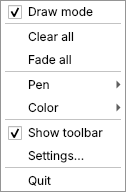
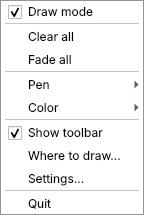
docs: document monitor and window targets, add future considerations
- FUTURE_CONSIDERATIONS.md collects ideas we discussed but have not built,
  starting with drawing over a region, plus click-to-pick windows, stacking
  only above the pinned window, remembering a pinned window, all-monitors
  mode, studio mode and other housekeeping.
- README: a "Choosing where to draw" section and troubleshooting entries,
  with a new screenshot of the dialog.
- ARCHITECTURE: the target decision and its limits.
- Refreshes the session log.

AIA PAI SeCeNc Hin R Claude Code Web Sonnet 5.5 Medium v1.0

Vibe-Coder: Vibe-Coder 1.z3r0 <243014891+vibecoder-1z3r0@users.noreply.github.com>

Changed region(s): [[0.0238, 0.25, 0.9762, 0.75], [0.0238, 0.0, 0.9762, 0.2188], [0.0476, 0.7812, 0.9524, 1.0]]

diff --git a/scripts/screenshots.py b/scripts/screenshots.py
@@ -204,12 +204,43 @@ def dissipation_screenshot(out: Path) -> None:
     image.save(str(out / "dissipation.png"))
 
 
+def target_screenshot(out: Path) -> None:
+    """The "Where to draw" dialog with two monitors and a few example windows."""
+    from maddenmode.gui.target_dialog import TargetDialog
+    from maddenmode.targeting import MonitorTarget, Rect, ScreenInfo
+    from maddenmode.windows import WindowInfo, WindowState
+
+    class SampleWindows:
+        available = True
+
+        def list_windows(self) -> list[WindowInfo]:
+            return [
+                WindowInfo(1, "Match replay - Game", Rect(0, 0, 1600, 900)),
+                WindowInfo(2, "Browser", Rect(0, 0, 1280, 800)),
+                WindowInfo(3, "Video call", Rect(0, 0, 960, 540)),
+            ]
+
+        def get_state(self, handle: int) -> WindowState:
+            raise AssertionError("the dialog only lists windows")
+
+    screens = [
+        ScreenInfo(0, "Main display", Rect(0, 0, 1920, 1080), 1.0, primary=True),
+        ScreenInfo(1, "Second display", Rect(1920, 0, 2560, 1440), 1.0),
+    ]
+    dialog = TargetDialog(screens, SampleWindows(), MonitorTarget(0))
+    dialog.resize(560, 460)
+    dialog.show()
+    dialog.grab().save(str(out / "target.png"))
+    dialog.close()
+
+
 def main() -> int:
     out = Path(sys.argv[1]) if len(sys.argv) > 1 else Path("docs/screenshots")
     out.mkdir(parents=True, exist_ok=True)
     qapp = QApplication.instance() or QApplication([])
     overlay_screenshot(out)
     dissipation_screenshot(out)
+    target_screenshot(out)
     print(f"wrote {sorted(p.name for p in out.glob('*.png'))} to {out}")
     qapp.quit()
     return 0

diff --git a/FUTURE_CONSIDERATIONS.md b/FUTURE_CONSIDERATIONS.md
@@ -1,0 +1,75 @@
+# Future considerations
+
+Ideas we talked about but have not built. None of these is a commitment, and
+the notes are starting points, not designs.
+
+## Draw over a region
+
+Drag a rectangle once, and the overlay covers only that area.
+
+- **Why:** some things worth drawing over are not a window of their own, such
+  as one part of the screen or a video inside another app. Pinning to a window
+  does not help there, and a whole monitor is more than you want.
+- **How it differs from pinning:** a region never follows anything. It stays
+  put until you change it.
+- **Saving it:** unlike a window handle, a region (a rectangle plus which
+  monitor it is on) still makes sense after a restart, so it could be saved in
+  the settings. It needs a fallback if that monitor is gone.
+- **Picking it:** a translucent selector over the chosen monitor with a
+  crosshair; drag to select, `Esc` cancels. A "Region..." entry next to
+  "Target" in the toolbar and tray.
+- **Testing:** the rectangle maths (normalizing a drag in any direction,
+  clamping to the monitor, a minimum size) is plain logic. The selector can be
+  tested offscreen.
+
+## Choosing and pinning windows
+
+- **Click to pick a window,** instead of choosing from a list. The list is
+  simpler and more dependable; clicking is quicker. It needs a temporary
+  full-screen "pick" mode.
+- **Stack only above the pinned window.** Today the overlay is always on top, so
+  it also covers any other window that overlaps the pinned window's area. A
+  smarter version would sit just above the target window in the stacking order
+  (on Windows, by placing it right after that window with `SetWindowPos`), which
+  needs care so it does not fight the toolbar and toast.
+- **Remember the pinned window across restarts,** by matching its title or
+  program name. Window handles do not survive a restart, so today only the
+  monitor is saved.
+- **Rescale strokes when the pinned window is resized.** Today strokes keep
+  their pixel position from the window's top-left corner and are not scaled.
+- **Mixed-scaling monitors.** The conversion from Windows' physical pixels to
+  Qt's logical pixels assumes Qt keeps each screen's origin fixed and scales
+  only its size. That is exact at 100% scaling and unverified on mixed-scaling
+  setups.
+
+## Where the overlay can draw
+
+- **All monitors at once,** as one overlay spanning every screen.
+- **True fullscreen (exclusive) games.** Many block overlays. Borderless or
+  windowed is the supported case; fullscreen would be best-effort at most.
+- **macOS and Linux.** Windows is the first target. Window pinning and global
+  hotkeys each need a backend per platform; Wayland restricts both heavily.
+
+## Drawing
+
+- **Shapes** (arrows, circles, lines) on top of freehand.
+- **Pressure-sensitive width** for styluses. Each point already carries a
+  pressure value (always 1.0 for now), so the stroke format will not change.
+
+## Studio mode
+
+A "live feed" of the screen you can pause, rewind and fast forward, then
+telestrate over. It needs a rolling screen-capture buffer. Strokes would be
+stored with timestamps, separate from the picture, so a mark made at 2:14 of the
+buffer replays when you rewind, and a timeline could show where the strokes are.
+Overlay mode keeps no history, by design.
+
+## Housekeeping
+
+- **Pin the Python version in CI** so the runners and your machine agree. The
+  project allows 3.13 and newer, and the Windows runner used a newer version
+  than the one we developed on.
+- **Measure performance at 4K.** The renderer allocates a layer per stroke per
+  frame, which has not been profiled.
+- **A packaged installer.** That would also mean shipping the Qt licence
+  notices; see `ARCHITECTURE.md`.

diff --git a/README.md b/README.md
@@ -55,6 +55,17 @@ While draw mode is off, the overlay is invisible to the mouse: clicks go through
 
 The **toolbar** (draggable, always on top) has the same controls as buttons, plus **Settings** and **Quit**. A **tray icon** has the same menu, so Quit is always reachable even with the toolbar hidden. A short **toast** message appears when the pen, color or mode changes.
 
+### Choosing where to draw
+
+By default the overlay covers your first monitor. Press **Target** on the toolbar (or **Where to draw...** in the tray menu) to change that:
+
+![The Where to draw dialog](docs/screenshots/target.png)
+
+- **A monitor:** pick any screen. Your choice is remembered.
+- **A window (Windows only):** pin the overlay to one window. It sizes itself to that window, follows it when you move or resize it, and hides while it is minimized. If the window closes, it goes back to your saved monitor. A pinned window is not remembered after a restart.
+
+Things to know about pinning: the overlay is always on top, so it also covers any other window that overlaps the pinned one, and marks keep their position from the window's top-left corner when it is resized.
+
 ### Pens
 
 Each pen has a color, width, feather (softness of the edge, in pixels; 0 is a hard edge) and a dissipation mode:
@@ -85,6 +96,8 @@ A damaged settings file never stops the app: it starts with defaults and tells y
 
 - **A hotkey does nothing, or a message says another app is using it:** switch the prefix to `Ctrl+Alt` in Settings.
 - **The overlay does not appear over a game:** try the game in windowed or borderless mode.
+- **The game is on another monitor:** press **Target** and choose that monitor.
+- **The window list is empty or disabled:** pinning needs Windows, and only windows that are visible, not minimized and have a title are listed. Open the window and press **Refresh**.
 - **On Linux:** hotkeys only work while the overlay has focus, there is no global hotkey backend yet. Wayland restricts always-on-top overlays; X11 works better. `make system-deps` installs the libraries Qt needs.
 
 ## Development
@@ -99,7 +112,7 @@ make system-deps   # Linux only: libraries Qt needs
 
 The code is split so the decisions live outside the windows: `controller`, `pen`, `scene`, `dissipation` and `settings_store` have no GUI imports and are tested directly. The `gui/` package is a thin Qt layer. Tests render offscreen, so they need no display.
 
-CI runs lint, type checking, the tests and a startup smoke test on Linux and Windows. See [CONTRIBUTING.md](CONTRIBUTING.md) for commit conventions and the policy for pull requests from forks, and [ARCHITECTURE.md](ARCHITECTURE.md) for the decisions behind the design.
+CI runs lint, type checking, the tests and a startup smoke test on Linux and Windows. See [CONTRIBUTING.md](CONTRIBUTING.md) for commit conventions and the policy for pull requests from forks, and [ARCHITECTURE.md](ARCHITECTURE.md) for the decisions behind the design. Ideas we have not built yet are in [FUTURE_CONSIDERATIONS.md](FUTURE_CONSIDERATIONS.md).
 
 ## Contributing and AI attribution
 

diff --git a/SESSION_LOG.md b/SESSION_LOG.md
@@ -69,17 +69,18 @@ Source: `/root/.claude/projects/-home-user/83b6fe43-fdef-5d48-9254-009a9ebfb942.
 | 63 | Open a PR | 02:55:49 | 2m 46s | 11s | 62 | 13,553 | 50,826 | 11,881,013 |
 | 64 | I did the forks thing | 02:58:45 | 11s | 47s | 10 | 1,686 | 816 | 1,366,719 |
 | 65 | Approval required | 02:59:43 | 13s | 33h 35m ⏳ | 9 | 2,203 | 1,583 | 1,370,079 |
-| 66 | How do I pick the window I telestrate over? | 12:35:44 | 10s | — | 4 | 1,764 | 825,570 | 94,386 |
+| 66 | How do I pick the window I telestrate over? | 12:35:44 | 19s | 3m 5s | 6 | 2,354 | 826,756 | 554,364 |
+| 67 | Implement 1 and 2 and then put 3 in a future considerations markdown d… | 12:39:08 | 6m 49s | — | 115 | 183,238 | 196,762 | 28,957,534 |
 
-**Total turns:** 66  
-**Total agent time spent (excl. flagged):** 42m 32s  
-**Total human think time (excl. outliers):** 1h 20m  
-**Average human think time (excl. outliers):** 1m 16s  
+**Total turns:** 67  
+**Total agent time spent (excl. flagged):** 49m 30s  
+**Total human think time (excl. outliers):** 1h 23m  
+**Average human think time (excl. outliers):** 1m 17s  
 **Think-time outliers (> 15 min):** 1  
-**Total input tokens:** 1,312  
-**Total output tokens:** 828,438  
-**Total cache-write tokens:** 1,835,862  
-**Total cache-read tokens:** 138,412,334  
+**Total input tokens:** 1,429  
+**Total output tokens:** 1,012,266  
+**Total cache-write tokens:** 2,033,810  
+**Total cache-read tokens:** 167,829,846  
 **Cache hit ratio (cache-read ÷ all prompt-side tokens):** 99%
 
 ⏳ Turn(s) 65 had a 'human think time' over 15 min (total 33h 35m) — likely a break, a resumed session, or time reading a long response rather than active back-and-forth. Excluded from BOTH the total and the average above (still shown per-row).

diff --git a/ARCHITECTURE.md b/ARCHITECTURE.md
@@ -68,6 +68,20 @@ so those are not used.
   - Settings dialog: hotkey prefix, hold-to-draw, fade-all time and each pen's
     width, feather, mode and times. Saved as JSON per user; a bad file falls
     back to defaults with a visible warning.
+- **Where it draws:** a target that is either a **monitor** or a **pinned
+  window**.
+  - Monitor: any screen, chosen in the "Where to draw" dialog. The choice is
+    saved (`monitor` in the settings). A missing monitor falls back to the
+    primary one with a message.
+  - Pinned window (Windows only for now): the overlay is sized to the window,
+    follows it by polling every 100 ms, hides while it is minimized, and falls
+    back to the saved monitor if the window closes. A pinned window is not
+    saved, because window handles do not survive a restart. Strokes live in
+    the overlay's own coordinates, so they move with the window.
+  - The window listing sits behind a `WindowBackend` interface; only Windows
+    has a real one. The logic (coordinate conversion, which windows to offer,
+    following) is plain code with tests; only the Win32 calls are thin.
+  - Not built: drawing over a region. See FUTURE_CONSIDERATIONS.md.
 - **Freehand only for now.** No shapes (arrows, circles, lines) in the first
   version; those can come later.
 - **Pens** (draft): color, width, hardness/softness and dissipation.
